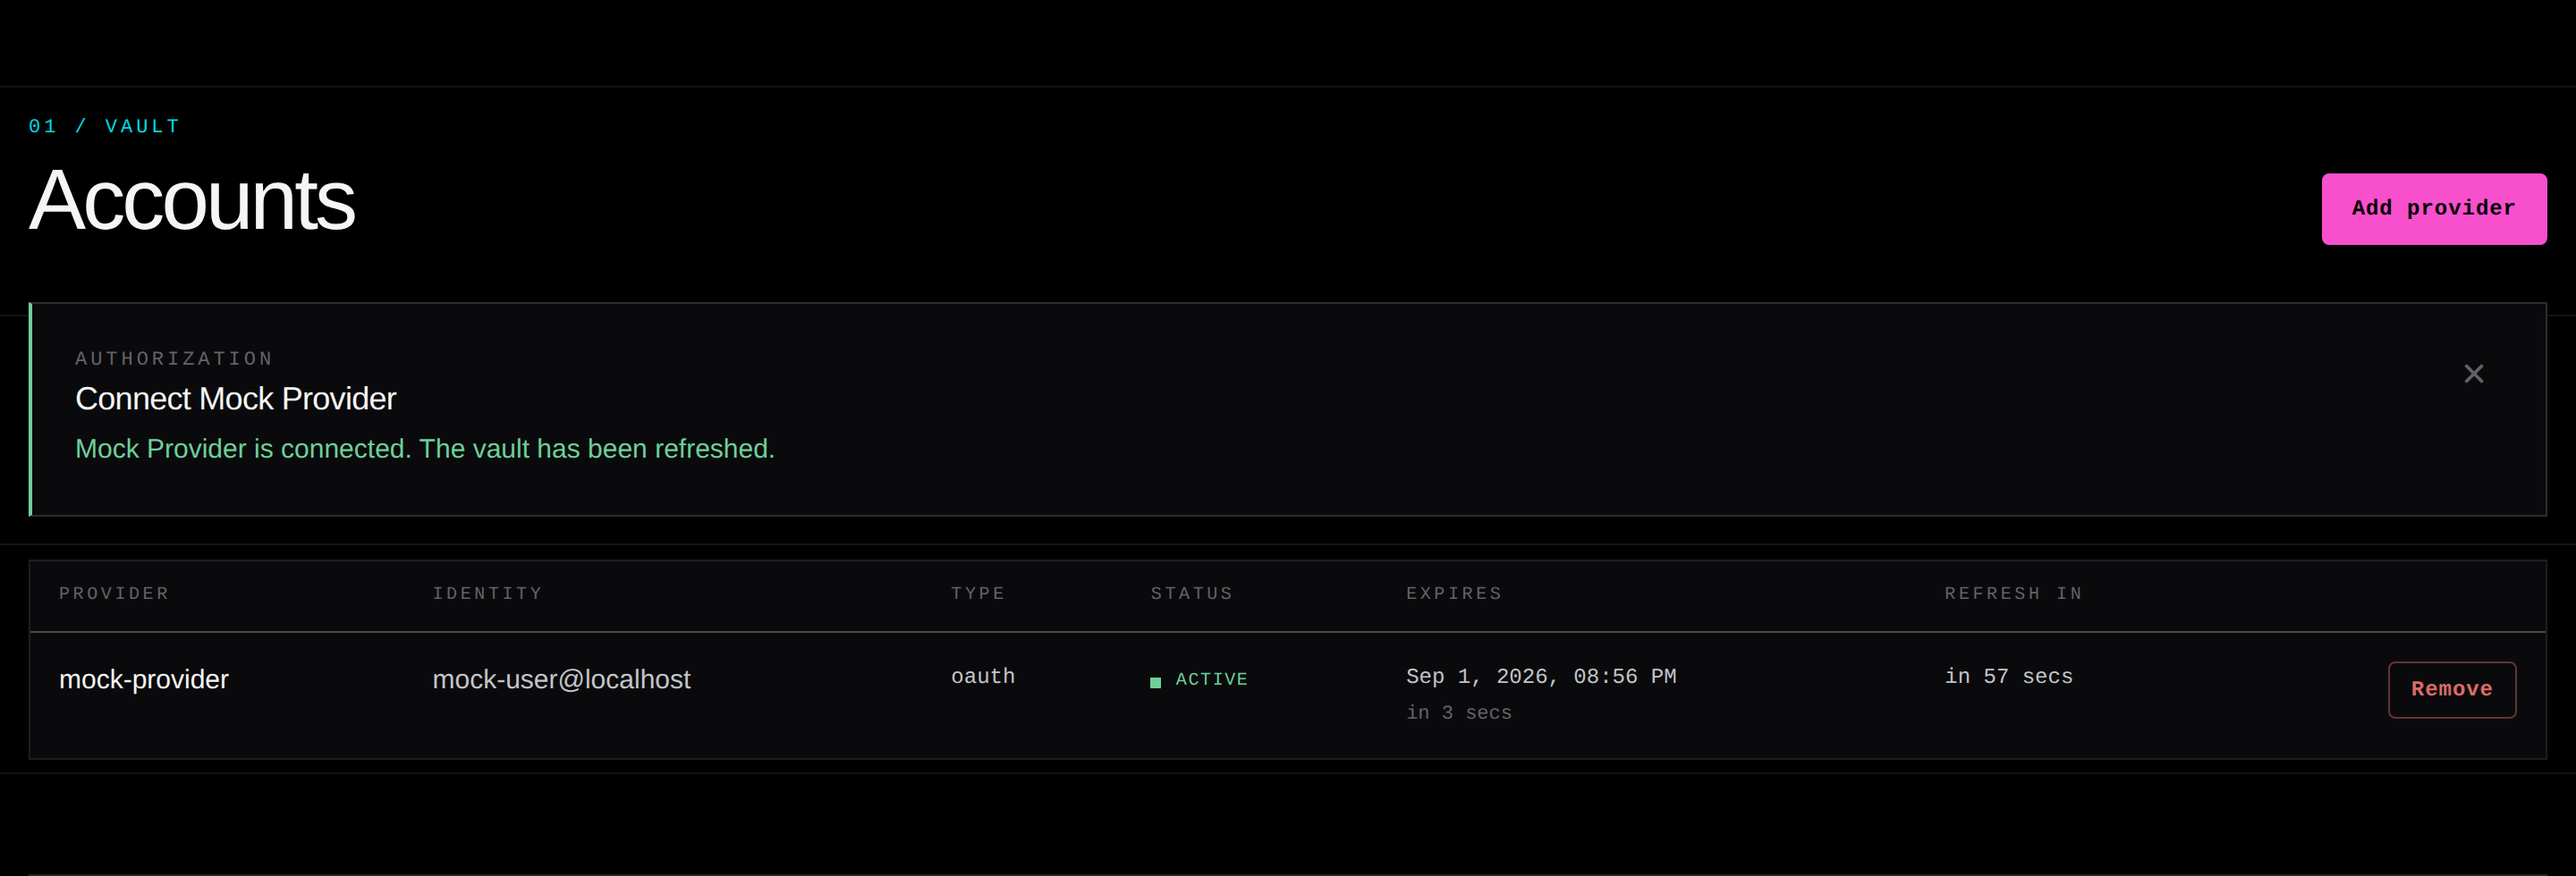
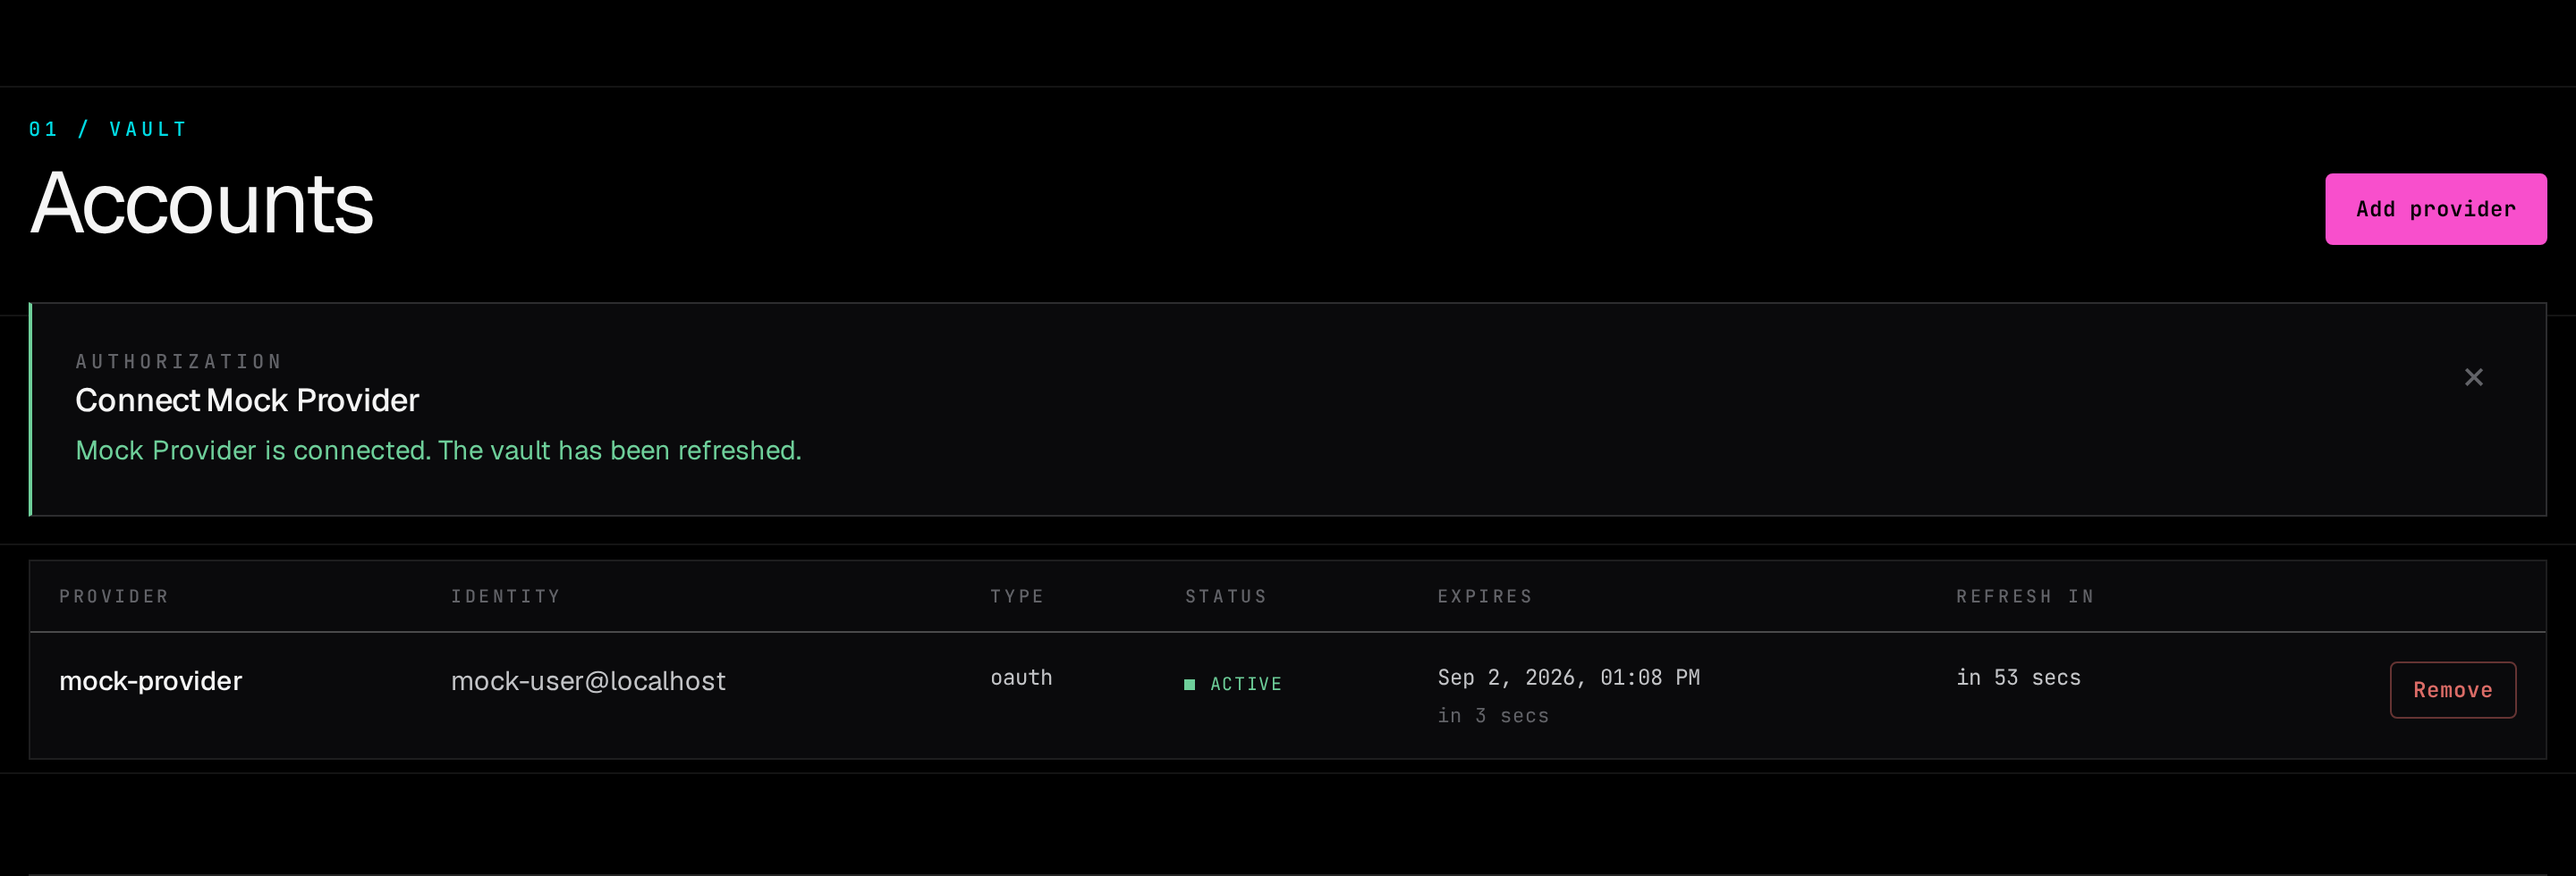
point CI screenshot refresh at the nix package, document it

diff --git a/AGENTS.md b/AGENTS.md
@@ -52,6 +52,10 @@ nix build
 
 The install phase **MUST** copy `pi_natives.*.node` next to the compiled binary. `@oh-my-pi/pi-natives`'s loader resolves the native addon from `node_modules` only in non-compiled Bun processes; a `bun build --compile` binary is detected via `import.meta.url` and only searches `~/.omp/natives/<version>/` and the directory containing `process.execPath`. Shipping both CPU variants (`modern`/`baseline`) next to the binary satisfies the latter without depending on a pre-populated `~/.omp/natives` cache on the host.
 
+`checks.e2e` and `packages.screenshots` both build the e2e suite (`packages/e2e`) inside the Nix sandbox via a shared `mkE2eDerivation` in `flake.nix`: no ambient nixpkgs, no host network — Chromium, the broker server, and the mock provider all run loopback-only inside the build. `checks.e2e` runs the full suite (`bun test --max-concurrency=1`); `packages.screenshots` runs only `screenshots.e2e.test.ts` and copies the resulting PNGs out of `docs/screenshots` into `$out`. CI's screenshot-refresh step runs `nix build .#screenshots` and copies `result/*.png` back into `docs/screenshots` — it no longer uses `nix develop`, so the browser suite always runs in the same hermetic sandbox locally and in CI.
+
+`packages/ui/src/fonts/*.woff2` are vendored Geist and JetBrains Mono variable-font files (OFL-licensed), loaded via local `@font-face` rules in `app.css`. The UI has zero external network dependencies; `index.html` carries no Google Fonts `<link>`.
+
 ## Verification
 
 With a development server running on `127.0.0.1:8765`:

diff --git a/README.md b/README.md
@@ -68,9 +68,12 @@ PI_CONFIG_DIR=/tmp/omp-broker-dev bun run dev
 ```sh
 nix build
 ./result/bin/omp-auth-broker serve
+nix build .#screenshots
 nix flake check --no-pure-eval
 devenv test
 ```
+
+`nix flake check --no-pure-eval` builds and runs the full browser e2e suite inside the Nix sandbox (`checks.e2e`) — no host network, no ambient toolchain. `nix build .#screenshots` runs only the screenshot capture in that same sandbox and writes `accounts.png`/`usage.png` to `result/`; CI copies them back into `docs/screenshots`. Both commands exercise the identical hermetic environment locally and in CI.
 
 The Nix dependency closure is derived from `bun.lock` automatically. There is no hash to regenerate when dependencies change. This uses import-from-derivation (IFD), so IFD must be allowed.
 
